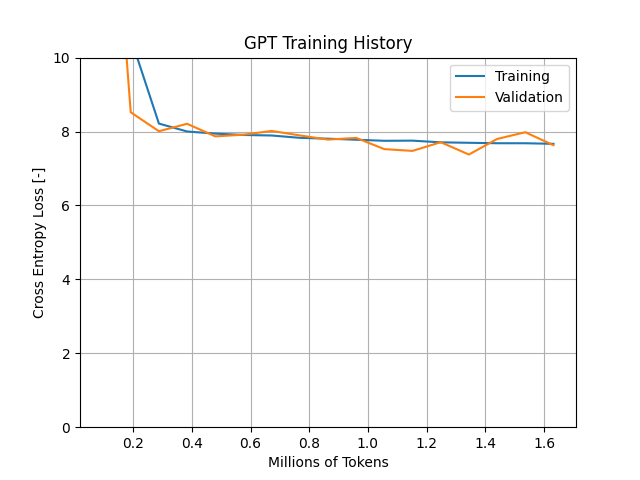
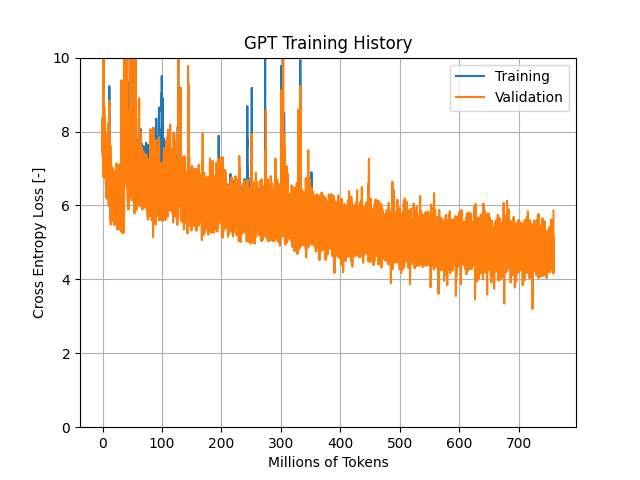
Update some code with partial training plots

Changed region(s): [[0.1562, 0.125, 0.875, 0.625], [0.1562, 0.9062, 0.875, 0.9375]]

diff --git a/AttnRes/GPT.py b/AttnRes/GPT.py
@@ -3,38 +3,84 @@ import torch.nn as nn
 import AttnRes.Attention as A
 import matplotlib.pyplot as plt
 
+class MLP(nn.Module):
+    def __init__(self, latent_dim: int, drop: float = 0.1) -> None:
+        super().__init__()
+        self.in_proj = nn.Linear(latent_dim, 4*latent_dim, bias=False)
+        self.out = nn.Linear(latent_dim*4, latent_dim, bias=False)
+        self.gelu = nn.GELU()
+        self.drop = nn.Dropout(drop)
+
+    def forward(self, x):
+        x = self.in_proj(x)
+        x = self.gelu(x)
+        x = self.out(x)
+        return self.drop(x)
+
+# Next task is plugging this in and troubleshooting. KQ Norms should help
+class MHA(nn.Module):
+    def __init__(self, embedding_dim: int, n_heads:int):
+        super().__init__()
+        
+        self.d_head = embedding_dim // n_heads
+        self.n_heads = n_heads
+        self.qkv  = nn.Linear(embedding_dim, 3*embedding_dim, bias=False)
+        self.proj = nn.Linear(embedding_dim, embedding_dim, bias=False)
+
+        self.qnorm = nn.RMSNorm(self.d_head)
+        self.knorm = nn.RMSNorm(self.d_head)
+    def forward(self, x: torch.Tensor) -> torch.Tensor:
+        B, T, C = x.shape
+        q, k, v = self.qkv(x).chunk(3, dim=-1)
+
+        q = q.view(B, T, self.n_heads, self.d_head).transpose(1,2)
+        k = k.view(B, T, self.n_heads, self.d_head).transpose(1,2)
+        v = v.view(B, T, self.n_heads, self.d_head).transpose(1,2)
+
+        q = self.qnorm(q)
+        k = self.knorm(k)
+
+        out = nn.functional.scaled_dot_product_attention(q, k, v, is_causal=True)
+        out = out.transpose(1,2).reshape(B, T, C)
+        return self.proj(out)
 # Decoder transformer as defined in Attention is All You Need
 class Transformer(nn.Module):
     def __init__(
             self,
-            embedding_dim: int, n_heads: int,
-            attn_layers: int = 3, dropout: float = 0.1):
+            embedding_dim: int,
+            n_heads: int,
+            dropout: float = 0.1,
+            n_layers: int | None = None
+        ):
         super().__init__()
 
         assert embedding_dim % n_heads == 0
-        self.attn_layers = nn.ModuleList(
-            torch.nn.MultiheadAttention(
-                embedding_dim,
-                n_heads,
-                dropout=dropout,
-                bias=False,
-                batch_first=True
-            ) for _ in range(attn_layers)
-        )
-
-        self.linear = torch.nn.Linear(
+        self.attn = torch.nn.MultiheadAttention(
             embedding_dim,
+            n_heads,
+            dropout=dropout,
+            bias=False,
+            batch_first=True
+        )
+
+        self.mlp = MLP(
             embedding_dim,
-            bias=False
+            dropout
         )
 
-        self.norm_layers = nn.ModuleList(
-            torch.nn.LayerNorm(
-                embedding_dim
-            ) for _ in range(attn_layers)
-        )
+        self.norm1 = torch.nn.LayerNorm( embedding_dim )
+        self.norm2 = torch.nn.LayerNorm( embedding_dim )
 
-        self.norm = torch.nn.LayerNorm( embedding_dim ) 
+        # GPT-2 style residual scaling: the weights that write straight back
+        # into the residual stream (attn's out_proj, mlp's final linear) get
+        # shrunk by 1/sqrt(2*n_layers) at init, so that summing n_layers of
+        # these contributions doesn't make the residual stream's variance
+        # grow with depth.
+        if n_layers is not None:
+            scale = (2 * n_layers) ** 0.5
+            with torch.no_grad():
+                self.attn.out_proj.weight /= scale
+                self.mlp.out.weight /= scale
 
     def forward(self, x: torch.Tensor) -> torch.Tensor:
         # x: (B, S, E)
@@ -42,12 +88,11 @@ class Transformer(nn.Module):
         causal_mask = nn.Transformer.generate_square_subsequent_mask(
             L, device=x.device, dtype=x.dtype
         )
-        for attn, norm in zip(self.attn_layers, self.norm_layers):
-            # print(x.shape)
-            y, _ = attn(x, x, x, is_causal=True, attn_mask=causal_mask)
-            x = norm(x + y)
+        
+        y, _ = self.attn(x, x, x, is_causal=True, attn_mask=causal_mask)
+        x = self.norm1(x + y)
 
-        return self.norm( self.linear( x ) + x)
+        return self.norm2( self.mlp( x ) + x)
     
     
 
@@ -59,12 +104,15 @@ class LanguageModel(nn.Module):
             attn_layers: int = 3, dropout: float = 0.1):
         super().__init__()
 
-        # Embedding module
+        # Embedding module. 
         self.stem = nn.Embedding(
             num_embeddings,
-            embedding_dim,
-            max_norm=1
+            embedding_dim
         )
+        # GPT-2-style small-std init. nn.Embedding's default init is N(0, 1),
+        # which is fine for an embedding table on its own but far too large
+        # once this weight also serves as the unembedding matrix
+        nn.init.normal_(self.stem.weight, mean=0.0, std=0.02)
 
         # Learned positional embedding, since the attention layers themselves
         # (causal mask aside) carry no notion of token order.
@@ -79,7 +127,8 @@ class LanguageModel(nn.Module):
             Transformer(
                 embedding_dim,
                 n_heads,
-                dropout=dropout
+                dropout=dropout,
+                n_layers=attn_layers
             ) for _ in range(attn_layers)
         )
 
@@ -89,13 +138,11 @@ class LanguageModel(nn.Module):
             ) for _ in range(attn_layers)
         )
         
-        self.attn_residual = A.AttentionModule(embedding_dim, dropout)
+        self.attn_residual = A.AttentionModule(embedding_dim, dropout, n_layers=attn_layers)
         
         self.activation = nn.GELU()
         self.output = nn.Linear(embedding_dim, num_embeddings, bias=False)
-        # Tie the output projection to the token embedding table. Halves the
-        # embedding-related parameter count and tends to help small models,
-        # which can't otherwise justify two separate 50257 x embedding_dim tables.
+
         self.output.weight = self.stem.weight
 
     def forward(self, x: torch.Tensor) -> torch.Tensor:
@@ -113,7 +160,7 @@ class LanguageModel(nn.Module):
             residual_list = torch.cat( ( residual_list, resid.unsqueeze(1) ), dim = 1 ) # Shape (B*S, R, H)
 
             residual_value = self.attn_residual(residual_list).reshape(x.shape)
-            x = norm(y + residual_value)
+            x = y + residual_value
 
         # print(x.shape)
         return self.output(x)

diff --git a/GPT.py b/GPT.py
@@ -6,11 +6,15 @@ import AttnRes
 import numpy as np
 from tqdm import tqdm
 import matplotlib.pyplot as plt
+# import bitsandbytes as bnb
 
 DEVICE = torch.device("cuda" if torch.cuda.is_available() else "cpu")
 MAX_TOKENS = 3.5e9 # Train this model an ~3.5 Billion tokens
-LR = 5e-4
+LR = 1e-4
 LOG_EVERY = 100
+BATCH_SIZE = 4
+NUM_HEADS = 32
+BLOCK_SIZE = 100
 
 tqdm.format_num = lambda n: f"{int(n):,}" if isinstance(n, (int, float)) else str(n)
 
@@ -23,20 +27,19 @@ logging.basicConfig(
 )
 
 if __name__ == "__main__":
-    block_size = 30
     # Dataloader will provide batches of 8 tokens
     dataloader = AttnRes.dataloader.dataloader(
          data_dir = Path("data"), 
-         block_size = block_size, 
-         batch_size = 32
+         block_size = BLOCK_SIZE, 
+         batch_size = BATCH_SIZE
     )
     
     model_kwargs = dict(
          num_embeddings=50257,
-         embedding_dim=1024,
-         n_heads = 4,
-         max_seq_len = block_size,
-         attn_layers = 3,
+         embedding_dim=2048,
+         n_heads = NUM_HEADS,
+         max_seq_len = BLOCK_SIZE,
+         attn_layers = 7,
          dropout = 0.05
     )
     
@@ -47,13 +50,14 @@ if __name__ == "__main__":
 
     optim = torch.optim.AdamW(
          model.parameters(),
-         lr = LR
+         lr = LR,
+         betas=(0.95, 0.95)
     )
-    # scheduler = torch.optim.lr_scheduler.CosineAnnealingLR(
-    #     optim, 
-    #     T_max=EPOCHS,  # Total number of iterations to reach minimum LR
-    #     eta_min=LR*1e-4       # Minimum learning rate target
-    # )
+    scheduler = torch.optim.lr_scheduler.CosineAnnealingLR(
+        optim, 
+        T_max=MAX_TOKENS / ( BLOCK_SIZE * BATCH_SIZE),  # Total number of iterations to reach minimum LR
+        eta_min=LR*1e-4       # Minimum learning rate target
+    )
     metrics = {
          "train": [],
          "validation": []
@@ -81,13 +85,12 @@ if __name__ == "__main__":
 
             guess = model(inputs)
             error = loss(guess.view(B*T, -1), targets.view(B*T))
-
             error.backward()
             optim.step()
 
             train_loss.append(error.detach().item())
             pbar.update(B*T)
-            # scheduler.step()
+            scheduler.step()
             
             prev_token_count = prev_token_count + B*T
             
@@ -114,11 +117,12 @@ if __name__ == "__main__":
 
                 if metrics["validation"][-1] < best_val_loss:
                     best_val_loss = metrics["validation"][-1]
+                    logging.info(f"Best validation loss: {best_val_loss}")
                     torch.save(
                         {
                             "model_state_dict": model.state_dict(),
                             "model_kwargs": model_kwargs,
-                            "block_size": block_size,
+                            "block_size": BLOCK_SIZE,
                             "num_tokens": prev_token_count,
                         },
                         "checkpoint.pt",

diff --git a/AttnRes/Attention.py b/AttnRes/Attention.py
@@ -2,7 +2,7 @@ import torch
 import torch.nn as nn
 
 class AttentionModule(nn.Module):
-    def __init__(self, token_dim, dropout):
+    def __init__(self, token_dim, dropout, n_layers: int | None = None):
         super().__init__()
         self.k = nn.Linear(token_dim, token_dim, bias=False)
         self.q = nn.Linear(token_dim, token_dim, bias=False)
@@ -10,10 +10,15 @@ class AttentionModule(nn.Module):
 
         self._p     = dropout
 
+        # Weight initialization
+        if n_layers is not None:
+            with torch.no_grad():
+                self.v.weight /= (2 * n_layers) ** 0.5
+
     def forward(self, x):
         # input should be x: (B, S, H)
         k, q, v = self.k(x), self.q(x), self.v(x)
 
-        attention_connection = nn.functional.scaled_dot_product_attention(q, k, v, is_causal=True, dropout_p=self._p if self.training else 0.0)
+        attention_connection = nn.functional.scaled_dot_product_attention(q, k, v, is_causal=True, dropout_p=self._p if self.training else 0.0, attn_mask=None)
 
         return attention_connection[:,-1,:]

diff --git a/generate.py b/generate.py
@@ -50,7 +50,7 @@ def main():
     parser.add_argument("--checkpoint", type=str, default="checkpoint.pt")
     parser.add_argument("--max_new_tokens", type=int, default=50)
     parser.add_argument("--temperature", type=float, default=0.8)
-    parser.add_argument("--top_k", type=int, default=40)
+    parser.add_argument("--top_k", type=int, default=100)
     args = parser.parse_args()
     enc = tiktoken.get_encoding("gpt2")
     model, block_size = load_model(args.checkpoint)
